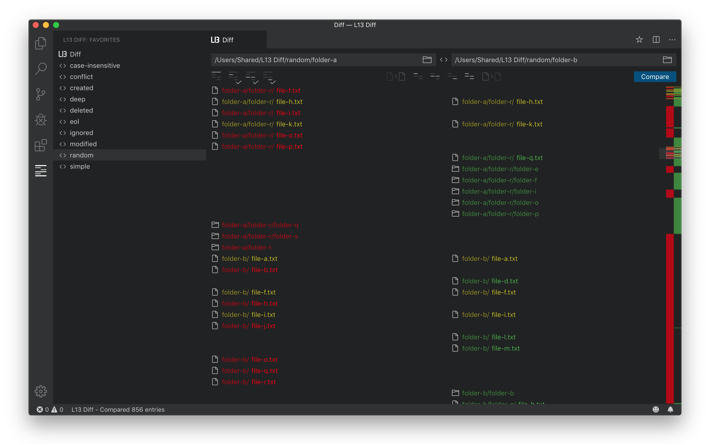
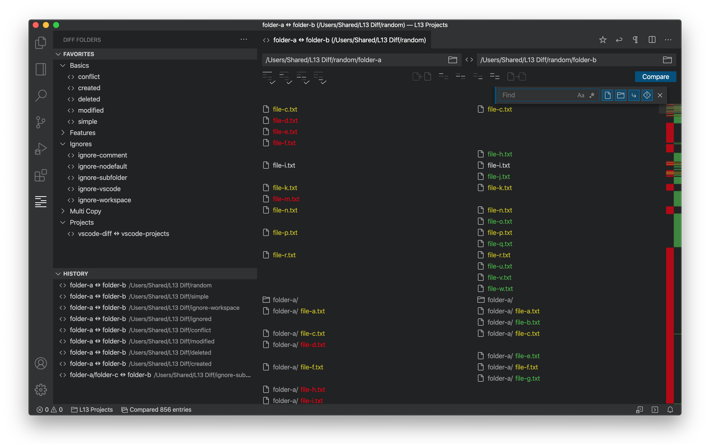
- updated preview images - added new extensions

diff --git a/README.md b/README.md
@@ -2,47 +2,57 @@
 
 This extension pack contains the following extensions.
 
-* [L13 Projects](https://marketplace.visualstudio.com/items?itemName=L13RARY.l13-projects) - Manage your projects, folders and workspaces.
-* [L13 Diff](https://marketplace.visualstudio.com/items?itemName=L13RARY.l13-diff) - Compare two folders in Visual Studio Code.
-* [L13 Duplicate](https://marketplace.visualstudio.com/items?itemName=L13RARY.l13-duplicate) - Duplicate multiple selections and/or lines.
-* [L13 Swap](https://marketplace.visualstudio.com/items?itemName=L13RARY.l13-swap) - Invert or rotate keywords in JavaScript and TypeScript.
-* [L13 CSS Snippets](https://marketplace.visualstudio.com/items?itemName=L13RARY.l13-css-snippets) - Property snippets for CSS and rule snippets for SCSS.
-* [L13 JS Snippets](https://marketplace.visualstudio.com/items?itemName=L13RARY.l13-js-snippets) - Keyword snippets and micro patterns for JavaScript and TypeScript.
+* [Projects](https://marketplace.visualstudio.com/items?itemName=L13RARY.l13-projects) - Manage your projects, folders and workspaces.
+* [Diff Folders](https://marketplace.visualstudio.com/items?itemName=L13RARY.l13-diff) - Compare two folders in Visual Studio Code.
+* [Duplicate](https://marketplace.visualstudio.com/items?itemName=L13RARY.l13-duplicate) - Duplicate multiple selections and/or lines.
+* [Swap Keywords](https://marketplace.visualstudio.com/items?itemName=L13RARY.l13-swap) - Invert or rotate keywords in JavaScript and TypeScript.
+* [Built-In Extensions](https://marketplace.visualstudio.com/items?itemName=L13RARY.l13-built-in-extensions) - Disable built-in extension features in Visual Studio Code.
+* [CSS and SCSS Snippets](https://marketplace.visualstudio.com/items?itemName=L13RARY.l13-css-snippets) - Property snippets for CSS and rule snippets for SCSS.
+* [JavaScript and TypeScript Snippets](https://marketplace.visualstudio.com/items?itemName=L13RARY.l13-js-snippets) - Keyword snippets and micro patterns for JavaScript and TypeScript.
+* [Shell Script Snippets](https://marketplace.visualstudio.com/items?itemName=L13RARY.l13-sh-snippets) - Keyword snippets and micro patterns for shell script.
 * [L13 Theme](https://marketplace.visualstudio.com/items?itemName=L13RARY.l13-theme) - Slim dark theme for Visual Studio Code.
 
 ## Workspace Extensions
 
-### [L13 Projects](https://marketplace.visualstudio.com/items?itemName=L13RARY.l13-projects)
+### [Projects](https://marketplace.visualstudio.com/items?itemName=L13RARY.l13-projects)
 
 Manage your projects, folders and workspaces.
 
-![L13 Projects](images/preview-projects.png)
+![Projects](images/preview-projects.png)
 
-### [L13 Diff](https://marketplace.visualstudio.com/items?itemName=L13RARY.l13-diff)
+### [Diff Folders](https://marketplace.visualstudio.com/items?itemName=L13RARY.l13-diff)
 
 Compare two folders in Visual Studio Code.
 
-![L13 Diff](images/preview-diff.png)
+![Diff Folders](images/preview-diff.png)
+
+### [Built-In Extensions](https://marketplace.visualstudio.com/items?itemName=L13RARY.l13-built-in-extensions)
+
+Disable built-in extension features in Visual Studio Code by cloning the built-in extension into the local extension folder and disable the features you don't need.
 
 ## Editor Extensions
 
-### [L13 Duplicate](https://marketplace.visualstudio.com/items?itemName=L13RARY.l13-duplicate)
+### [Duplicate](https://marketplace.visualstudio.com/items?itemName=L13RARY.l13-duplicate)
 
 Duplicate multiple selections and/or lines before or after their current positions.
 
-### [L13 Swap](https://marketplace.visualstudio.com/items?itemName=L13RARY.l13-swap)
+### [Swap Keywords](https://marketplace.visualstudio.com/items?itemName=L13RARY.l13-swap)
 
 Invert or rotate keywords in JavaScript and TypeScript.
 
 ## Snippets
 
-### [L13 CSS Snippets](https://marketplace.visualstudio.com/items?itemName=L13RARY.l13-css-snippets)
+### [CSS and SCSS Snippets](https://marketplace.visualstudio.com/items?itemName=L13RARY.l13-css-snippets)
 
 Contains property snippets for CSS and rule snippets for SCSS.
 
-### [L13 JS Snippets](https://marketplace.visualstudio.com/items?itemName=L13RARY.l13-js-snippets)
+### [JavaScript and TypeScript Snippets](https://marketplace.visualstudio.com/items?itemName=L13RARY.l13-js-snippets)
 
 Contains keyword snippets and micro patterns for JavaScript and TypeScript.
+
+### [Shell Script Snippets](https://marketplace.visualstudio.com/items?itemName=L13RARY.l13-sh-snippets)
+
+Contains keyword snippets and micro patterns for shell script.
 
 ## Theme
 

diff --git a/CHANGELOG.md b/CHANGELOG.md
@@ -1,5 +1,9 @@
 # Change Log
 All notable changes to the "L13 Extension Pack" extension will be documented in this file.
 
+## [0.14.0] - 2020-07-05
+- Added extension "Built-In Extensions"
+- Added extension "Shell Script Snippets"
+
 ## [0.13.0] - 2019-09-22
 - Initial release

diff --git a/LICENCE.md b/LICENCE.md
@@ -1,4 +1,4 @@
-Copyright (c) 2019 L13|RARY
+Copyright (c) 2019 - 2020 L13|RARY
 
 Permission is hereby granted, free of charge, to any person obtaining a copy
 of this software and associated documentation files (the "Software"), to deal
